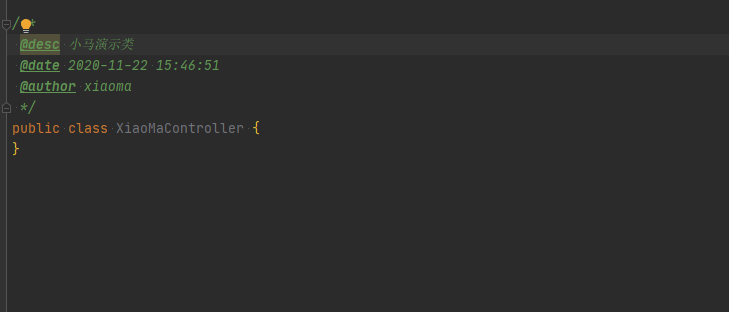
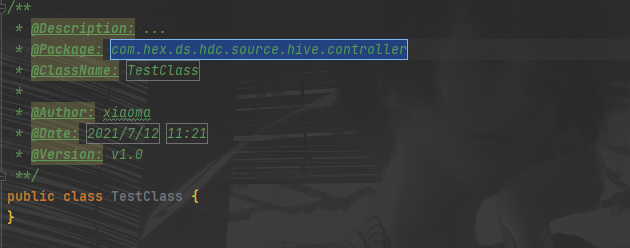
idea配置修改

diff --git a/source/_posts/IntelliJ_IDEA_配置 (小马多年血泪沉淀下来的).md b/source/_posts/IntelliJ_IDEA_配置 (小马多年血泪沉淀下来的).md
@@ -67,21 +67,26 @@ date: 2021-02-07 01:26:20
 
 ![设置显示行号和方法间的分隔符](/img/articleContent/IDEASetting/showLineNumberAndMethodSeparatorsAfter.png)
 
-## 6 新建类头注释信息
+## 6 类注释添加
 
-> 平时项目里都是协作开发，虽然我们在git记录里可以看到代码是谁写的，以及是干什么的。但是我们可以在新建类的时候，让idea自动帮我们生成作者以及描述等信息，这样就很直观的可以看到类的相关信息。
+> 平时项目里都是协作开发，虽然我们在git记录里可以看到代码是谁写的，以及是干什么的。让idea自动帮我们生成作者以及描述等信息，这样就很直观的可以看到类的相关信息。
+
 
 ![新建类头注释信息](/img/articleContent/IDEASetting/fileHeaderInNewClass.png)
 
 ```
 /**
-    @desc   ...
-    @date ${YEAR}-${MONTH}-${DAY} ${HOUR}:${MINUTE}:${SECOND}
-    @author xiaoma
-*/
+ * @Description: ...
+ * @Package: $PAKCAGE_NAME$
+ * @ClassName: $CLASS_NAME$
+ *
+ * @Author: xiaoma
+ * @Date: $DATE$ $TIME$
+ * @Version: v1.0
+ **/
 ```
 
-我刚新建了个类，我们看下，效果就是这样
+> 在类头上输入`ac`，然后回车
 
 ![新建类头注释信息](/img/articleContent/IDEASetting/fileHeaderInNewClassAlfter.png)
 
@@ -94,29 +99,31 @@ date: 2021-02-07 01:26:20
 ![JavaDoc注释](/img/articleContent/IDEASetting/javaDocTemplates2.png)
 
 ```
-*
- * @desc $description$
- $params$
- * @return $return$
- *
- * @date $date$ $time$
- * @author xiaoma
+**
+ * @Description: ...
+ * @Method: $METHOD_NAME$
+ $Params$
+ * @Return: $return$ 
+        
+ * @Author: xiaoma
+ * @Date: $DATE$ $TIME$ 
+ * @Version: V1.0
  */
 ```
 
-params的值设置为
+> `Params`的值设置为
 
 ```
-groovyScript("def result=''; def params=\"${_1}\".replaceAll('[\\\\[|\\\\]|\\\\s]', '').split(',').toList(); for(i = 1; i < params.size() +1; i++) {result+='* @param ' + params[i - 1] + ' ' + i + ((i < params.size()) ? '\\n ' : '')}; return result", methodParameters())
+groovyScript("def result=''; def params=\"${_1}\".replaceAll('[\\\\[|\\\\]|\\\\s]', '').split(',').toList(); for(i = 1; i < params.size() +1; i++) {result+='* @Param: ' + params[i - 1] + ' ' + i + ((i < params.size()) ? '\\n ' : '')}; return result", methodParameters())
 ```
 
-使用方法
+> 使用方法
 
 ```
-/**+回车
+/am+回车
 ```
 
-我刚新建了个方法，在上面输入/**+回车之后的效果，大家看下
+> 我刚新建了个方法，在上面输入/am+回车之后的效果，大家看下
 
 ![JavaDoc注释](/img/articleContent/IDEASetting/javaDocTemplatesAlfter.png)
 

diff --git a/source/_posts/踩坑之路(一)_服务器基础配置.md b/source/_posts/踩坑之路(一)_服务器基础配置.md
@@ -43,7 +43,13 @@ hostnamectl
 > 修改主机名(不用重启)
 
 ```shell
-hostnamectl --static set-hostname xiaoMaZhuJiMing
+# 第一台机器执行
+hostnamectl set-hostname node1.lankr.cn
+# 第二台机器执行
+hostnamectl set-hostname node2.lankr.cn
+# 第三台机器执行
+hostnamectl set-hostname node3.lankr.cn
+.......
 # 可以用上面命令查看改好了没，也可以看下 /etc/hostname 这个文件，应该也改了
 ```
 
